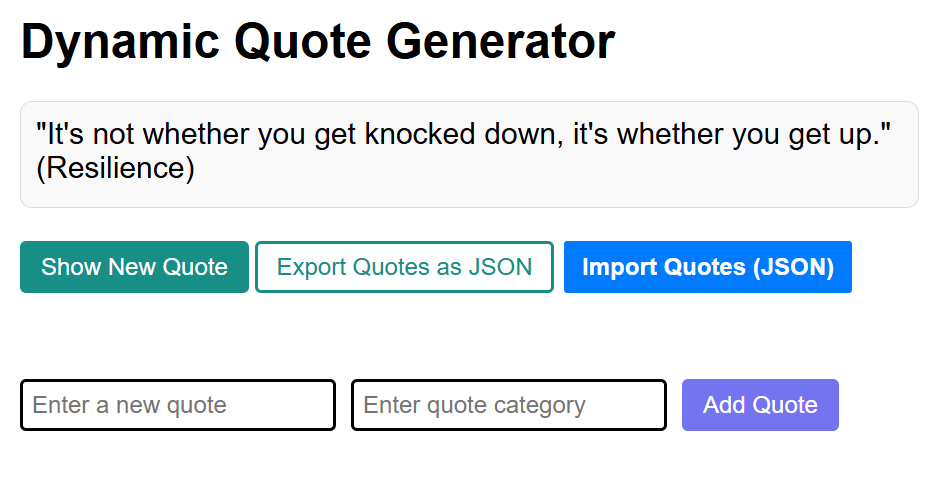
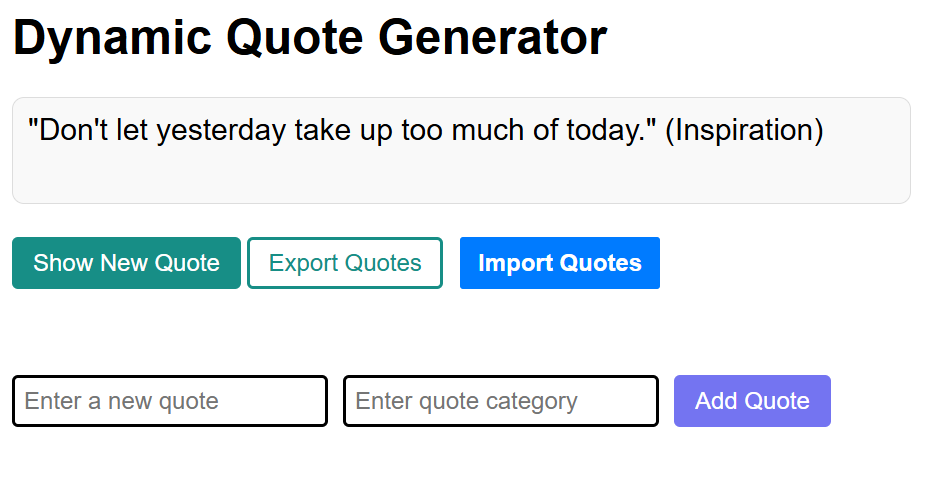
feat: add category-based filtering with persistent selection
Implemented dynamic quote filtering by category, storing last
selected filter in web storage to persist user preference across
sessions.

diff --git a/dom-manipulation/script.js b/dom-manipulation/script.js
@@ -1,5 +1,6 @@
 const QUOTES_KEY = "quotes";
 const LAST_VIEWED_QUOTE_KEY = "lastViewedQuote";
+const LAST_SELECTED_CATEGORY = "lastSelectedCategory";
 
 // Default quotes to load if nothing is in localStorage
 const defaultQuotes = [
@@ -139,6 +140,8 @@ function createAddQuoteForm(quotes) {
     }
 
     addQuote(quotes, newQuote);
+    populateCategories(quotes);
+    showRandomQuote(filterQuotes(quotes));
     form.reset();
   });
 
@@ -197,7 +200,7 @@ function importFromJsonFile(event, quotes) {
 
   const fileReader = new FileReader();
 
-  fileReader.onload = function (e) {
+  fileReader.onload = (e) => {
     try {
       const importedQuotes = JSON.parse(e.target.result);
 
@@ -227,7 +230,8 @@ function importFromJsonFile(event, quotes) {
       saveQuotes(quotes);
 
       // Update the UI (e.g., refresh displayed quote)
-      showRandomQuote(quotes);
+      populateCategories(quotes);
+      showRandomQuote(filterQuotes(quotes));
 
       alert(`Successfully imported ${validQuotes.length} quotes!`);
     } catch (error) {
@@ -247,10 +251,40 @@ function importFromJsonFile(event, quotes) {
   fileReader.readAsText(file);
 }
 
+function populateCategories(quotes) {
+  const categoryFilter = document.getElementById("categoryFilter");
+  if (!categoryFilter) {
+    console.error("Category filter select element not found");
+    return;
+  }
+
+  const categories = ["all", ...new Set(quotes.map((q) => q.category))];
+  categoryFilter.innerHTML = categories
+    .map((cat) => `<option value="${cat}">${cat}</option>`)
+    .join("");
+
+  // Restore last selected category from localStorage if available
+  const lastCategory = localStorage.getItem(LAST_SELECTED_CATEGORY);
+  if (lastCategory && categories.includes(lastCategory)) {
+    categoryFilter.value = lastCategory;
+  } else {
+    categoryFilter.value = "all";
+  }
+}
+
+function filterQuotes(quotes) {
+  const category = document.getElementById("categoryFilter")?.value || "all";
+  localStorage.setItem(LAST_SELECTED_CATEGORY, category); // Save the filter selection to localStorage
+
+  return category === "all"
+    ? quotes
+    : quotes.filter((q) => q.category === category);
+}
+
 // Initial setup on DOM load
 document.addEventListener("DOMContentLoaded", function () {
   // Load quotes from localStorage or defaults
-  const quotes = loadQuotes();
+  let quotes = loadQuotes();
 
   // Ensure quote display container exists
   let quoteContainer = document.getElementById("quoteDisplay");
@@ -258,6 +292,47 @@ document.addEventListener("DOMContentLoaded", function () {
     quoteContainer = document.createElement("div");
     quoteContainer.id = "quoteDisplay";
     document.body.appendChild(quoteContainer);
+  }
+
+  // Ensure form container exists
+  let formContainer = document.getElementById("form-container");
+  if (!formContainer) {
+    formContainer = document.createElement("div");
+    formContainer.id = "form-container";
+    document.body.appendChild(formContainer);
+  }
+
+  // Populate category dropdown
+  populateCategories(quotes);
+
+  let filteredQuotes = filterQuotes(quotes);
+
+  const categorySelect = document.getElementById("categoryFilter");
+  if (categorySelect) {
+    categorySelect.addEventListener("change", () => {
+      filteredQuotes = filterQuotes(quotes);
+      showRandomQuote(filteredQuotes);
+    });
+  }
+
+  // Update quote display with last viewed or random filtered quote
+  function updateQuoteDisplay() {
+    const lastQuote = loadLastViewedQuote();
+    if (lastQuote) {
+      displayQuote(lastQuote);
+    } else {
+      showRandomQuote(filteredQuotes);
+    }
+  }
+
+  // Set click listener on button to show new random quote
+  const showQuoteBtn = document.getElementById("newQuote");
+  if (showQuoteBtn) {
+    showQuoteBtn.addEventListener("click", () =>
+      showRandomQuote(filteredQuotes)
+    );
+  } else {
+    console.warn("Show quote button with id 'newQuote' not found.");
   }
 
   // Set click listener on button to export quotes
@@ -271,37 +346,11 @@ document.addEventListener("DOMContentLoaded", function () {
   // Set onchange listener on input to import quotes
   const importInput = document.getElementById("importFile");
   if (importInput) {
-    importInput.addEventListener("change", () =>
+    importInput.addEventListener("change", (event) =>
       importFromJsonFile(event, quotes)
     );
   } else {
-    console.warn("Export quotes button with id 'exportQuotesBtn' not found.");
-  }
-
-  // Ensure form container exists
-  let formContainer = document.getElementById("form-container");
-  if (!formContainer) {
-    formContainer = document.createElement("div");
-    formContainer.id = "form-container";
-    document.body.appendChild(formContainer);
-  }
-
-  // Update the quote display (from last viewed or random)
-  function updateQuoteDisplay() {
-    const lastQuote = loadLastViewedQuote();
-    if (lastQuote) {
-      displayQuote(lastQuote);
-    } else {
-      showRandomQuote(quotes);
-    }
-  }
-
-  // Set click listener on button to show new random quote
-  const showQuoteBtn = document.getElementById("newQuote");
-  if (showQuoteBtn) {
-    showQuoteBtn.addEventListener("click", () => showRandomQuote(quotes));
-  } else {
-    console.warn("Show quote button with id 'newQuote' not found.");
+    console.warn("Import quotes input with id 'importFile' not found.");
   }
 
   // Initially display a random quote

diff --git a/dom-manipulation/style.css b/dom-manipulation/style.css
@@ -21,11 +21,18 @@ body {
   margin: 5px 10px 5px 0;
   padding: 6px;
   font-size: 1rem;
-  border: 2px solid;
+  border: 2px solid #ccc;
   border-radius: 4px;
 }
+
+#form-container input:focus {
+  outline: none;
+  border-color: #7474f1;
+}
+
 button,
-#importLabel {
+#importLabel,
+#categoryFilter {
   padding: 6px 12px;
   font-size: 1rem;
   border: 2px solid;
@@ -77,4 +84,21 @@ button,
 
 #importLabel:hover {
   background-color: #034e9e;
+}
+
+#categoryFilter {
+  font-family: "Segoe UI", Tahoma, Geneva, Verdana, sans-serif;
+  color: #333;
+  background-color: white;
+  border-color: #ccc;
+}
+
+#categoryFilter:hover {
+  border-color: #888;
+}
+
+#categoryFilter:focus {
+  outline: none;
+  border-color: #007bff;
+  background-color: #f0f8ff;
 }

diff --git a/dom-manipulation/index.html b/dom-manipulation/index.html
@@ -10,9 +10,14 @@
     <h1>Dynamic Quote Generator</h1>
     <div id="quoteDisplay"></div>
     <button id="newQuote">Show New Quote</button>
+    <select id="categoryFilter">
+      <option value="all">All Categories</option>
+      <!-- Dynamically populated categories -->
+    </select>
     <button id="exportQuotesBtn">Export Quotes</button>
     <label for="importFile" id="importLabel">Import Quotes</label>
     <input type="file" name="importFile" id="importFile" accept=".json" />
+
     <script src="script.js"></script>
   </body>
 </html>

diff --git a/dom-manipulation/README.md b/dom-manipulation/README.md
@@ -23,6 +23,7 @@ This project demonstrates core front-end concepts including **DOM manipulation**
 
 ![Screenshot](./assets/images/image1.png)
 ![Screenshot](./assets/images/image2.png)
+![Screenshot](./assets/images/image3.png)
 
 ---
 
